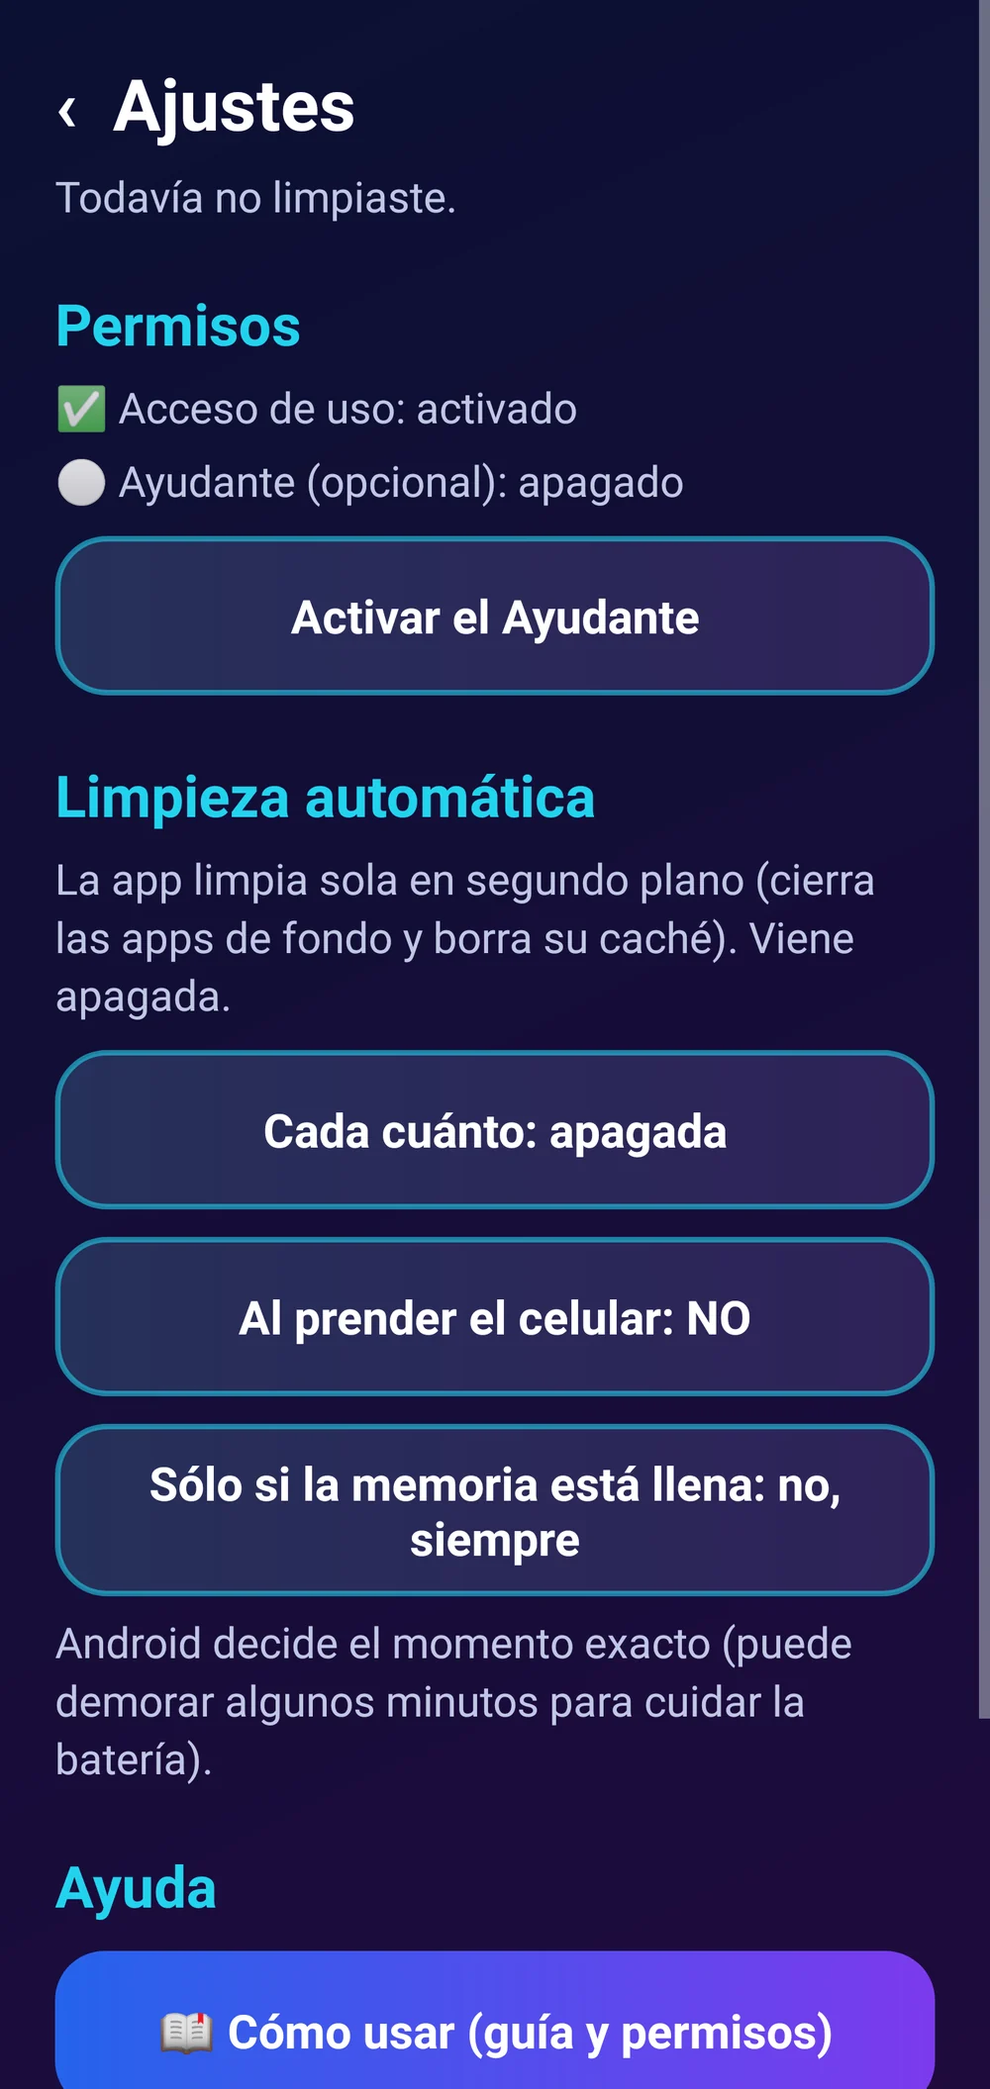
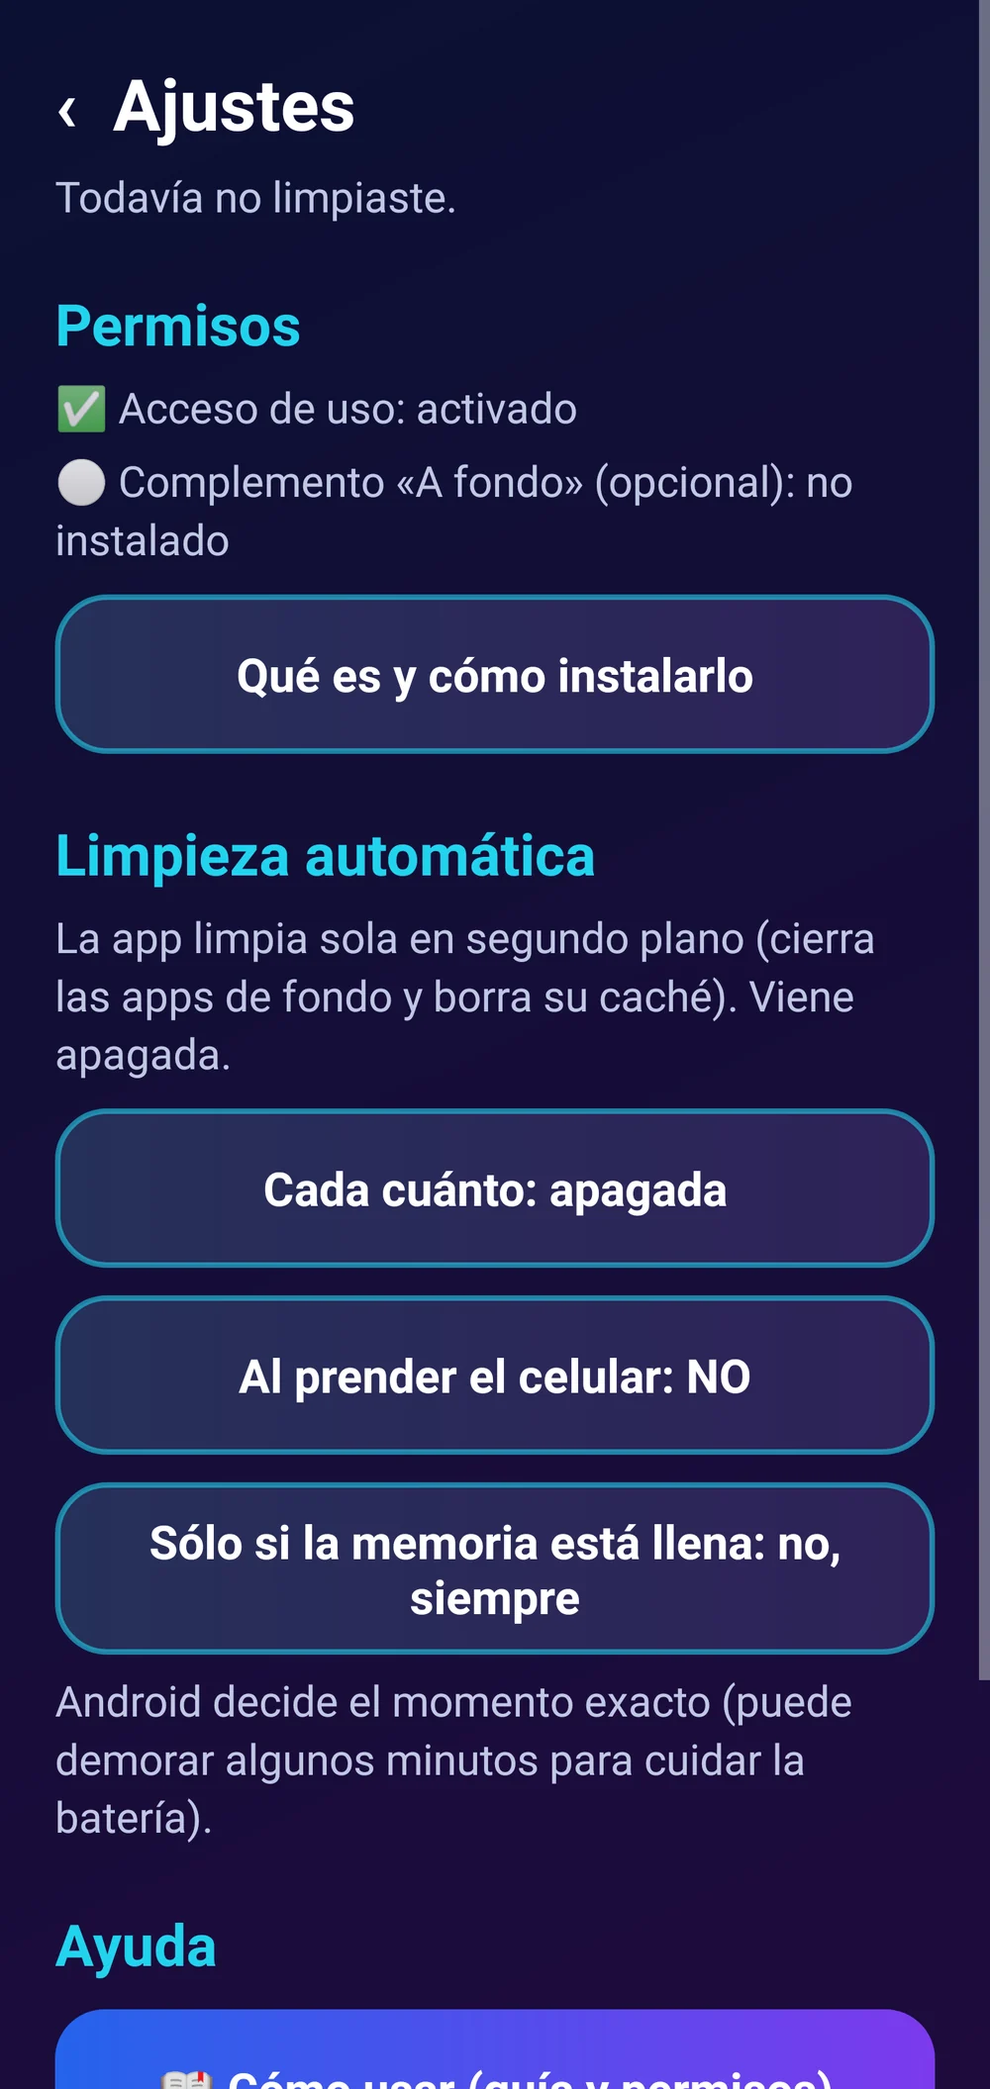
Barrido Turbo 1.0.1: sin Accesibilidad (Play Protect), complemento A fondo opcional

Changed region(s): [[0.031, 0.2155, 0.961, 1.0], [0.992, 0.8006, 1.0, 0.8314]]

diff --git a/apps/barrido-turbo.html b/apps/barrido-turbo.html
@@ -1,14 +1,14 @@
 <!doctype html><html lang="es-AR" data-tema="oscuro" data-raiz=".."><head><meta charset="utf-8"><meta name="viewport" content="width=device-width,initial-scale=1">
-<title>Barrido Turbo — SumoSoft</title><script type="application/ld+json">{"@context": "https://schema.org", "@type": "SoftwareApplication", "name": "Barrido Turbo", "description": "¿Tu celular anda lento o se traba? Un toque cierra las apps que quedaron abiertas de fondo y borra caché.", "operatingSystem": "Android 9 o superior", "applicationCategory": "UtilitiesApplication", "softwareVersion": "1.0.0", "url": "https://nachosumo-droid.github.io/apps/apps/barrido-turbo.html", "image": "https://nachosumo-droid.github.io/apps/img/marca/og-image.png", "inLanguage": "es-AR", "publisher": {"@type": "Organization", "name": "SumoSoft", "url": "https://nachosumo-droid.github.io/apps/"}, "offers": {"@type": "Offer", "price": "3999", "priceCurrency": "ARS", "availability": "https://schema.org/InStock", "url": "https://nachosumo-droid.github.io/apps/apps/barrido-turbo.html"}}</script><meta name="description" content="¿Tu celular anda lento o se traba? Un toque cierra las apps que quedaron abiertas de fondo y borra caché."><meta name="theme-color" content="#070b16"><meta name="color-scheme" content="dark light"><link rel="canonical" href="https://nachosumo-droid.github.io/apps/apps/barrido-turbo.html"><meta property="og:type" content="website"><meta property="og:site_name" content="SumoSoft"><meta property="og:locale" content="es_AR"><meta property="og:title" content="Barrido Turbo — SumoSoft"><meta property="og:description" content="¿Tu celular anda lento o se traba? Un toque cierra las apps que quedaron abiertas de fondo y borra caché."><meta property="og:url" content="https://nachosumo-droid.github.io/apps/apps/barrido-turbo.html"><meta property="og:image" content="https://nachosumo-droid.github.io/apps/img/marca/og-image.png?v=3"><meta property="og:image:width" content="1200"><meta property="og:image:height" content="630"><meta name="twitter:card" content="summary_large_image"><meta name="twitter:image" content="https://nachosumo-droid.github.io/apps/img/marca/og-image.png?v=3"><link rel="icon" type="image/png" sizes="32x32" href="../img/marca/favicon-32.png?v=3"><link rel="apple-touch-icon" href="../img/marca/apple-touch-icon.png?v=3"><script>try{var t=localStorage.getItem("tema");if(!t)t=matchMedia("(prefers-color-scheme: light)").matches?"claro":"oscuro";document.documentElement.dataset.tema=t}catch(e){}</script>
+<title>Barrido Turbo — SumoSoft</title><script type="application/ld+json">{"@context": "https://schema.org", "@type": "SoftwareApplication", "name": "Barrido Turbo", "description": "¿Tu celular anda lento o se traba? Un toque cierra las apps que quedaron abiertas de fondo y borra caché.", "operatingSystem": "Android 9 o superior", "applicationCategory": "UtilitiesApplication", "softwareVersion": "1.0.1", "url": "https://nachosumo-droid.github.io/apps/apps/barrido-turbo.html", "image": "https://nachosumo-droid.github.io/apps/img/marca/og-image.png", "inLanguage": "es-AR", "publisher": {"@type": "Organization", "name": "SumoSoft", "url": "https://nachosumo-droid.github.io/apps/"}, "offers": {"@type": "Offer", "price": "3999", "priceCurrency": "ARS", "availability": "https://schema.org/InStock", "url": "https://nachosumo-droid.github.io/apps/apps/barrido-turbo.html"}}</script><meta name="description" content="¿Tu celular anda lento o se traba? Un toque cierra las apps que quedaron abiertas de fondo y borra caché."><meta name="theme-color" content="#070b16"><meta name="color-scheme" content="dark light"><link rel="canonical" href="https://nachosumo-droid.github.io/apps/apps/barrido-turbo.html"><meta property="og:type" content="website"><meta property="og:site_name" content="SumoSoft"><meta property="og:locale" content="es_AR"><meta property="og:title" content="Barrido Turbo — SumoSoft"><meta property="og:description" content="¿Tu celular anda lento o se traba? Un toque cierra las apps que quedaron abiertas de fondo y borra caché."><meta property="og:url" content="https://nachosumo-droid.github.io/apps/apps/barrido-turbo.html"><meta property="og:image" content="https://nachosumo-droid.github.io/apps/img/marca/og-image.png?v=3"><meta property="og:image:width" content="1200"><meta property="og:image:height" content="630"><meta name="twitter:card" content="summary_large_image"><meta name="twitter:image" content="https://nachosumo-droid.github.io/apps/img/marca/og-image.png?v=3"><link rel="icon" type="image/png" sizes="32x32" href="../img/marca/favicon-32.png?v=3"><link rel="apple-touch-icon" href="../img/marca/apple-touch-icon.png?v=3"><script>try{var t=localStorage.getItem("tema");if(!t)t=matchMedia("(prefers-color-scheme: light)").matches?"claro":"oscuro";document.documentElement.dataset.tema=t}catch(e){}</script>
 <link rel="stylesheet" href="../assets/estilo.css?v=10"><link rel="icon" type="image/svg+xml" href="../img/marca/icono.svg?v=3"></head><body>
 <a class="saltar" href="#contenido">Saltar al contenido</a><header><div class="w"><a class="logo" href="../index.html" aria-label="SumoSoft, inicio"><img src="../img/marca/icono.svg?v=3" alt="" width="34" height="34"><span>Sumo<b>Soft</b></span></a><nav aria-label="Principal"><a href="../index.html#apps">Apps</a><a class="oc" href="../index.html#confianza">Por qué nosotros</a><a href="../faq.html">Preguntas</a><a class="oc" href="../contacto.html">Contacto</a><button class="tema" type="button" aria-label="Cambiar tema">☀</button></nav></div></header>
 <main id="contenido"><div class="w"><p class="migas"><a href="../index.html">Inicio</a> › <a href="../index.html#apps">Apps</a> › Barrido Turbo</p><div class="app-top" style="--c:#22d3ee"><div class="ico" style="--c:#22d3ee"><img src="../img/icon-barrido-turbo.webp" alt="" width="96" height="96"></div><div><span class="tag">Celular</span><h1>Barrido Turbo</h1><p style="color:var(--txt2);margin:6px 0 0">¿Tu celular anda lento o se traba? Un toque cierra las apps que quedaron abiertas de fondo y borra caché.</p></div></div>
-<p class="titular">Más que un limpiador de RAM: libera tu celular de las apps que quedaron abiertas sin que lo sepas.</p><p class="aviso">Los números que muestra la app son mediciones reales de tu equipo; el resultado depende de lo que tengas abierto. Android puede volver a abrir algunas apps por su cuenta (por ejemplo, las que reciben mensajes).</p><p class="aviso">Para celulares Android 9 a 14 (probado para Samsung A03 y similares).</p><div class="descargas"><a class="btn pri" href="https://github.com/nachosumo-droid/apps/releases/download/barrido-turbo-v1.0.0-web/BarridoTurbo-1.0.0-web.apk" download>⬇ 📱 Barrido Turbo — celular</a></div><div class="acciones"><a class="btn" href="#" data-comprar="barrido-turbo">🛒 Comprar · <span data-precio="barrido-turbo"></span></a></div>
+<p class="titular">Más que un limpiador de RAM: libera tu celular de las apps que quedaron abiertas sin que lo sepas.</p><p class="aviso">Los números que muestra la app son mediciones reales de tu equipo; el resultado depende de lo que tengas abierto. Android puede volver a abrir algunas apps por su cuenta (por ejemplo, las que reciben mensajes).</p><p class="aviso">Para celulares Android 9 a 14 (probado para Samsung A03 y similares).</p><div class="descargas"><a class="btn pri" href="https://github.com/nachosumo-droid/apps/releases/download/barrido-turbo-v1.0.1-web/BarridoTurbo-1.0.1-web.apk" download>⬇ 📱 Barrido Turbo — celular</a></div><div class="acciones"><a class="btn" href="#" data-comprar="barrido-turbo">🛒 Comprar · <span data-precio="barrido-turbo"></span></a></div>
 <p id="msg-compra" class="aviso" hidden></p>
-<div class="shots" tabindex="0" aria-label="Capturas"><a href="../img/barrido-turbo-0-hd.webp" class="lb" data-lb="barrido-turbo"><img src="../img/barrido-turbo-0.webp" alt="Un toque y tu celular, liviano (tocá para ampliar)" width="1000" height="562" loading="lazy"><span class="cap">Un toque y tu celular, liviano</span></a><a href="../img/barrido-turbo-1-hd.webp" class="lb" data-lb="barrido-turbo"><img src="../img/barrido-turbo-1.webp" alt="Un solo botón: LIMPIAR (tocá para ampliar)" width="1000" height="2111" loading="lazy"><span class="cap">Un solo botón: LIMPIAR</span></a><a href="../img/barrido-turbo-2-hd.webp" class="lb" data-lb="barrido-turbo"><img src="../img/barrido-turbo-2.webp" alt="Cada app abierta de fondo se va (tocá para ampliar)" width="1000" height="2111" loading="lazy"><span class="cap">Cada app abierta de fondo se va</span></a><a href="../img/barrido-turbo-3-hd.webp" class="lb" data-lb="barrido-turbo"><img src="../img/barrido-turbo-3.webp" alt="Resultado (ejemplo: el número real lo mide tu celular) (tocá para ampliar)" width="1000" height="2111" loading="lazy"><span class="cap">Resultado (ejemplo: el número real lo mide tu celular)</span></a><a href="../img/barrido-turbo-4-hd.webp" class="lb" data-lb="barrido-turbo"><img src="../img/barrido-turbo-4.webp" alt="Caché de cada app (tocá para ampliar)" width="1000" height="2111" loading="lazy"><span class="cap">Caché de cada app</span></a><a href="../img/barrido-turbo-5-hd.webp" class="lb" data-lb="barrido-turbo"><img src="../img/barrido-turbo-5.webp" alt="Limpieza automática (tocá para ampliar)" width="1000" height="2111" loading="lazy"><span class="cap">Limpieza automática</span></a><a href="../img/barrido-turbo-6-hd.webp" class="lb" data-lb="barrido-turbo"><img src="../img/barrido-turbo-6.webp" alt="Guía: te muestra dónde tocar (tocá para ampliar)" width="1000" height="2111" loading="lazy"><span class="cap">Guía: te muestra dónde tocar</span></a><a href="../img/barrido-turbo-7-hd.webp" class="lb" data-lb="barrido-turbo"><img src="../img/barrido-turbo-7.webp" alt="Ayudante opcional, explicado (tocá para ampliar)" width="1000" height="2111" loading="lazy"><span class="cap">Ayudante opcional, explicado</span></a></div>
-<div class="cols"><div><section class="distinta"><h2>Lo que la hace distinta</h2><ul><li>👆 Un solo botón gigante. Sin menús raros ni palabras técnicas.</li><li>👀 Ves en pantalla cada app que se cierra: entendés qué estaba ocupando tu celular.</li><li>📏 Números reales, medidos antes y después. Nunca inventa megas.</li><li>🧹 Cierra apps de fondo y borra caché: puede ayudar a que ande más fluido.</li><li>🚀 Ayudante opcional para cerrar «a fondo» en celulares nuevos, explicado paso a paso.</li><li>⏰ Se limpia sola si querés: cada X horas, al prender o cuando la memoria está llena.</li></ul></section><h2>Qué es</h2><p>Muchas veces el celular anda lento porque quedaron apps abiertas de fondo sin que te des cuenta: el navegador, videos, redes, juegos. Barrido Turbo las cierra con un solo botón grande, borra caché y te muestra cuánta memoria liberó, con números reales medidos por tu celular. Puede ayudar a que ande más fluido. Simple, en castellano y pensado para cualquier persona.</p><h2>Qué hace</h2><ul><li>Cierra las apps que quedaron abiertas de fondo y que no estás usando (navegador, videos, redes, juegos), con un solo botón.</li><li>Mientras limpia, ves el ícono de cada app que se cierra; al final te dice cuánta memoria (RAM) se liberó y cuántas apps cerró. El número es real: lo mide tu celular antes y después, así que a veces es mucho y a veces poco.</li><li>Borra su propia caché y te muestra cuánta caché tiene cada app; con el Ayudante opcional la borra de todas, o la borrás vos tocando la app.</li><li>En los celulares nuevos (Android 10 o más), Android limita lo que una app puede cerrar. Por eso trae un Ayudante opcional (Accesibilidad) que toca por vos «Forzar detención» en cada app, sólo cuando vos apretás «A fondo».</li><li>Limpieza automática opcional: cada 1, 3, 6, 12 o 24 horas, al prender el celular y/o sólo cuando la memoria está muy llena.</li><li>Nunca toca apps del sistema, la pantalla de inicio, el teclado ni la propia app. No envía tus datos a ningún lado.</li></ul><h2>Requisitos</h2><ul><li>Celular Android 9 a 14</li><li>Permiso «Acceso de uso» (recomendado; la guía te lleva y lo detecta sola)</li><li>Ayudante de Accesibilidad: opcional</li><li>No necesita root, PC ni cables</li></ul><h2>Funciones</h2><ul class="f"><li>Un solo botón grande: LIMPIAR (1–2 segundos)</li><li>Ves cómo se va cada app que se cierra</li><li>Resultado real: cuánta RAM se liberó y cuántas apps se cerraron</li><li>Borra caché y muestra cuánta tiene cada app</li><li>Ayudante opcional para cerrar «a fondo» en celulares nuevos</li><li>Limpieza automática cada X horas, al prender o si la memoria está llena</li><li>Guía ilustrada que te lleva a cada permiso</li><li>Widget y atajo «Limpiar» en la pantalla de inicio</li></ul>
-<h2>Cómo se instala</h2><ol class="pasos-i"><li>Descargá el APK e instalalo (si Android pregunta, permití instalar desde el navegador).</li><li>Abrila y seguí la guía ilustrada: te muestra dónde tocar en cada pantalla de Ajustes.</li><li>En Android 13 o 14, si el Ayudante dice «Configuración restringida»: Ajustes → Apps → Barrido Turbo → ⋮ → «Permitir configuración restringida».</li><li>Tocá LIMPIAR. Para comprar: «Activar» → «Comprar con Mercado Pago».</li></ol><h2>Novedades</h2><ul><li><b>1.0.0</b> — Primera versión.</li></ul></div>
-<aside class="box"><dl><dt>Versión</dt><dd>1.0.0</dd><dt>Requisitos</dt><dd>Android 9 o superior · celular Android</dd><dt>Prueba</dt><dd>7 días, todas las funciones</dd><dt>Licencia</dt><dd>De por vida, 1 equipo (podés pasarla a otro con tu código)</dd><dt>Pago</dt><dd>Mercado Pago</dd><dt>Precio</dt><dd data-precio="barrido-turbo"></dd></dl>
+<div class="shots" tabindex="0" aria-label="Capturas"><a href="../img/barrido-turbo-0-hd.webp" class="lb" data-lb="barrido-turbo"><img src="../img/barrido-turbo-0.webp" alt="Un toque y tu celular, liviano (tocá para ampliar)" width="1000" height="562" loading="lazy"><span class="cap">Un toque y tu celular, liviano</span></a><a href="../img/barrido-turbo-1-hd.webp" class="lb" data-lb="barrido-turbo"><img src="../img/barrido-turbo-1.webp" alt="Un solo botón: LIMPIAR (tocá para ampliar)" width="1000" height="2111" loading="lazy"><span class="cap">Un solo botón: LIMPIAR</span></a><a href="../img/barrido-turbo-2-hd.webp" class="lb" data-lb="barrido-turbo"><img src="../img/barrido-turbo-2.webp" alt="Cada app abierta de fondo se va (tocá para ampliar)" width="1000" height="2111" loading="lazy"><span class="cap">Cada app abierta de fondo se va</span></a><a href="../img/barrido-turbo-3-hd.webp" class="lb" data-lb="barrido-turbo"><img src="../img/barrido-turbo-3.webp" alt="Resultado (ejemplo: el número real lo mide tu celular) (tocá para ampliar)" width="1000" height="2111" loading="lazy"><span class="cap">Resultado (ejemplo: el número real lo mide tu celular)</span></a><a href="../img/barrido-turbo-4-hd.webp" class="lb" data-lb="barrido-turbo"><img src="../img/barrido-turbo-4.webp" alt="Caché de cada app (tocá para ampliar)" width="1000" height="2111" loading="lazy"><span class="cap">Caché de cada app</span></a><a href="../img/barrido-turbo-5-hd.webp" class="lb" data-lb="barrido-turbo"><img src="../img/barrido-turbo-5.webp" alt="Limpieza automática (tocá para ampliar)" width="1000" height="2111" loading="lazy"><span class="cap">Limpieza automática</span></a><a href="../img/barrido-turbo-6-hd.webp" class="lb" data-lb="barrido-turbo"><img src="../img/barrido-turbo-6.webp" alt="Guía: te muestra dónde tocar (tocá para ampliar)" width="1000" height="2111" loading="lazy"><span class="cap">Guía: te muestra dónde tocar</span></a><a href="../img/barrido-turbo-7-hd.webp" class="lb" data-lb="barrido-turbo"><img src="../img/barrido-turbo-7.webp" alt="Complemento «A fondo» opcional, explicado (tocá para ampliar)" width="1000" height="2111" loading="lazy"><span class="cap">Complemento «A fondo» opcional, explicado</span></a></div>
+<div class="cols"><div><section class="distinta"><h2>Lo que la hace distinta</h2><ul><li>👆 Un solo botón gigante. Sin menús raros ni palabras técnicas.</li><li>👀 Ves en pantalla cada app que se cierra: entendés qué estaba ocupando tu celular.</li><li>📏 Números reales, medidos antes y después. Nunca inventa megas.</li><li>🧹 Cierra apps de fondo y borra caché: puede ayudar a que ande más fluido.</li><li>🚀 Complemento opcional «A fondo» (aparte) para cerrar a fondo en celulares nuevos, explicado paso a paso.</li><li>⏰ Se limpia sola si querés: cada X horas, al prender o cuando la memoria está llena.</li></ul></section><h2>Qué es</h2><p>Muchas veces el celular anda lento porque quedaron apps abiertas de fondo sin que te des cuenta: el navegador, videos, redes, juegos. Barrido Turbo las cierra con un solo botón grande, borra caché y te muestra cuánta memoria liberó, con números reales medidos por tu celular. Puede ayudar a que ande más fluido. Simple, en castellano y pensado para cualquier persona.</p><h2>Qué hace</h2><ul><li>Cierra las apps que quedaron abiertas de fondo y que no estás usando (navegador, videos, redes, juegos), con un solo botón.</li><li>Mientras limpia, ves el ícono de cada app que se cierra; al final te dice cuánta memoria (RAM) se liberó y cuántas apps cerró. El número es real: lo mide tu celular antes y después, así que a veces es mucho y a veces poco.</li><li>Borra su propia caché y te muestra cuánta caché tiene cada app; con el complemento opcional «A fondo» la borra de todas, o la borrás vos tocando la app.</li><li>En los celulares nuevos (Android 10 o más), Android limita lo que una app puede cerrar. Para eso existe un complemento OPCIONAL y gratuito, «Barrido Turbo A fondo» (APK aparte), que toca por vos «Forzar detención» en cada app, sólo cuando vos apretás «A fondo». La app principal no usa Accesibilidad.</li><li>Limpieza automática opcional: cada 1, 3, 6, 12 o 24 horas, al prender el celular y/o sólo cuando la memoria está muy llena.</li><li>Nunca toca apps del sistema, la pantalla de inicio, el teclado ni la propia app. No envía tus datos a ningún lado.</li></ul><h2>Requisitos</h2><ul><li>Celular Android 9 a 14</li><li>Permiso «Acceso de uso» (recomendado; la guía te lleva y lo detecta sola)</li><li>Complemento «A fondo»: opcional (APK aparte; usa Accesibilidad, por eso Google Play Protect puede avisar o bloquearlo)</li><li>No necesita root, PC ni cables</li></ul><h2>Funciones</h2><ul class="f"><li>Un solo botón grande: LIMPIAR (1–2 segundos)</li><li>Ves cómo se va cada app que se cierra</li><li>Resultado real: cuánta RAM se liberó y cuántas apps se cerraron</li><li>Borra caché y muestra cuánta tiene cada app</li><li>Complemento opcional «A fondo» (aparte) para cerrar a fondo en celulares nuevos</li><li>Limpieza automática cada X horas, al prender o si la memoria está llena</li><li>Guía ilustrada que te lleva a cada permiso</li><li>Widget y atajo «Limpiar» en la pantalla de inicio</li></ul>
+<h2>Cómo se instala</h2><ol class="pasos-i"><li>Descargá el APK e instalalo (si Android pregunta, permití instalar desde el navegador).</li><li>Abrila y seguí la guía ilustrada: te muestra dónde tocar en cada pantalla de Ajustes.</li><li>Opcional: para «A fondo», la app te ofrece descargar el complemento. En Android 13 o 14, si dice «Configuración restringida»: Ajustes → Apps → Barrido Turbo A fondo → ⋮ → «Permitir configuración restringida».</li><li>Tocá LIMPIAR. Para comprar: «Activar» → «Comprar con Mercado Pago».</li></ol><h2>Novedades</h2><ul><li><b>1.0.1</b> — La app principal ya no usa Accesibilidad, para que Google Play Protect no bloquee la instalación. «A fondo» pasa a un complemento opcional aparte.</li><li><b>1.0.0</b> — Primera versión.</li></ul></div>
+<aside class="box"><dl><dt>Versión</dt><dd>1.0.1</dd><dt>Requisitos</dt><dd>Android 9 o superior · celular Android</dd><dt>Prueba</dt><dd>7 días, todas las funciones</dd><dt>Licencia</dt><dd>De por vida, 1 equipo (podés pasarla a otro con tu código)</dd><dt>Pago</dt><dd>Mercado Pago</dd><dt>Precio</dt><dd data-precio="barrido-turbo"></dd></dl>
 <p style="font-size:14px;color:var(--txt2)">¿Dudas? Mirá las <a href="../faq.html">preguntas frecuentes</a>.</p></aside></div></div></main>
 <footer><div class="w"><div class="pie"><div><a class="logo" href="../index.html"><img src="../img/marca/icono.svg?v=3" alt="" width="34" height="34"><span>Sumo<b>Soft</b></span></a><p style="margin:0;max-width:340px">Apps para Android TV y celular, pensadas para el control remoto y hechas en Argentina.</p></div><div><h4>Sitio</h4><a href="../index.html#apps">Apps</a><a href="../faq.html">Preguntas frecuentes</a><a href="../contacto.html">Contacto</a></div><div><h4>Legal</h4><a href="../privacidad.html">Privacidad</a><a href="../terminos.html">Términos</a><a href="../reembolsos.html">Reembolsos y arrepentimiento</a></div></div><div class="legal"><span>© 2026 SumoSoft</span><span>Pagos procesados por Mercado Pago</span></div></div></footer>
 <script src="../assets/sitio.js?v=10" defer></script><script src="../assets/marca.js?v=10" defer></script></body></html>
